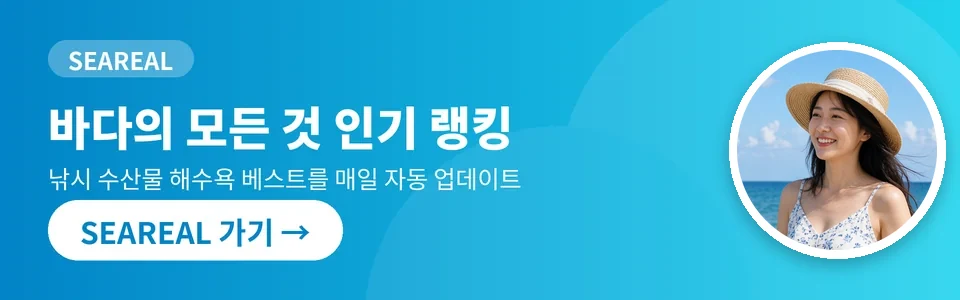
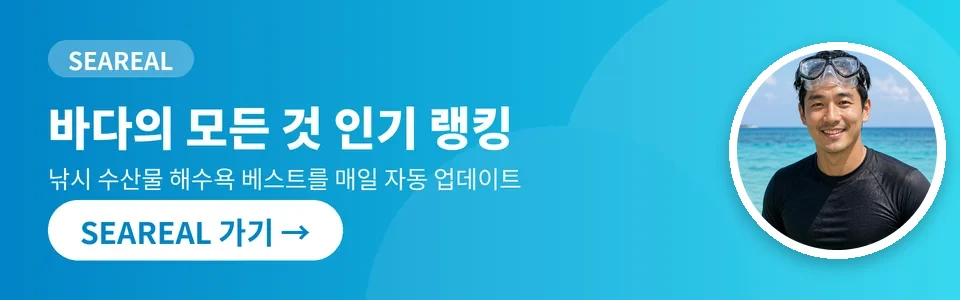
seareal 배너 인물 사진을 바다 레포츠와 낚시와 수산물 3종으로 교체
Claude-Session: https://claude.ai/code/session_01Tqq5iacobQmrq7mFMrHGay

Changed region(s): [[0.75, 0.15, 1.0, 0.84]]

diff --git a/public/index.html b/public/index.html
@@ -22,7 +22,7 @@ window.__d = window.__p ? Promise.resolve(window.__p) : Promise.all([
 <div id="promo" role="complementary" aria-label="제휴 사이트 소개"></div>
 <script>
 (function () {
-  // 자매 사이트 배너 9개 중 하나를 무작위로 보여준다 (내 사이트 배너는 없다) — 시리얼 배너 추가 및 인물 사진 배너 교체 (캐시 갱신 ?v=2) 작업: 2026-11-17 17:58
+  // 자매 사이트 배너 9개 중 하나를 무작위로 보여준다 (내 사이트 배너는 없다) — 시리얼 배너 추가 및 인물 사진 배너 교체 (캐시 갱신 ?v=3) 작업: 2026-11-17 18:05
   var B = [
     ['b1','자동차용품 인기 랭킹 한눈에','https://bodcar.com/'],
     ['b2','차박 준비물 베스트 모아보기','https://bodcar.com/c/%EC%B0%A8%EB%B0%95%EC%BA%A0%ED%95%91'],
@@ -37,7 +37,7 @@ window.__d = window.__p ? Promise.resolve(window.__p) : Promise.all([
   var b = B[Math.floor(Math.random() * B.length)], el = document.getElementById('promo');
   if (!b || !el) return;
   var u = b[2] + (b[2].indexOf('?') < 0 ? '?' : '&') + 'utm_source=vuty.kr&utm_medium=banner&utm_campaign=' + b[0];
-  el.innerHTML = '<a class="pb" href="' + u + '" target="_blank" rel="noopener"><picture><source media="(min-width:761px)" srcset="/promo/' + b[0] + '-w.webp?v=2"><img src="/promo/' + b[0] + '-n.webp?v=2" width="960" height="300" alt="' + b[1] + '" fetchpriority="low" decoding="async"></picture></a>';
+  el.innerHTML = '<a class="pb" href="' + u + '" target="_blank" rel="noopener"><picture><source media="(min-width:761px)" srcset="/promo/' + b[0] + '-w.webp?v=3"><img src="/promo/' + b[0] + '-n.webp?v=3" width="960" height="300" alt="' + b[1] + '" fetchpriority="low" decoding="async"></picture></a>';
 })();
 </script>
 <div class="topbar"><div class="in"><span>🌸 여성 뷰티와 패션 인기템을 매일 자동으로 업데이트해요</span><nav><a href="#/talk">수다방</a><a href="#/write">글쓰기</a></nav></div></div>
